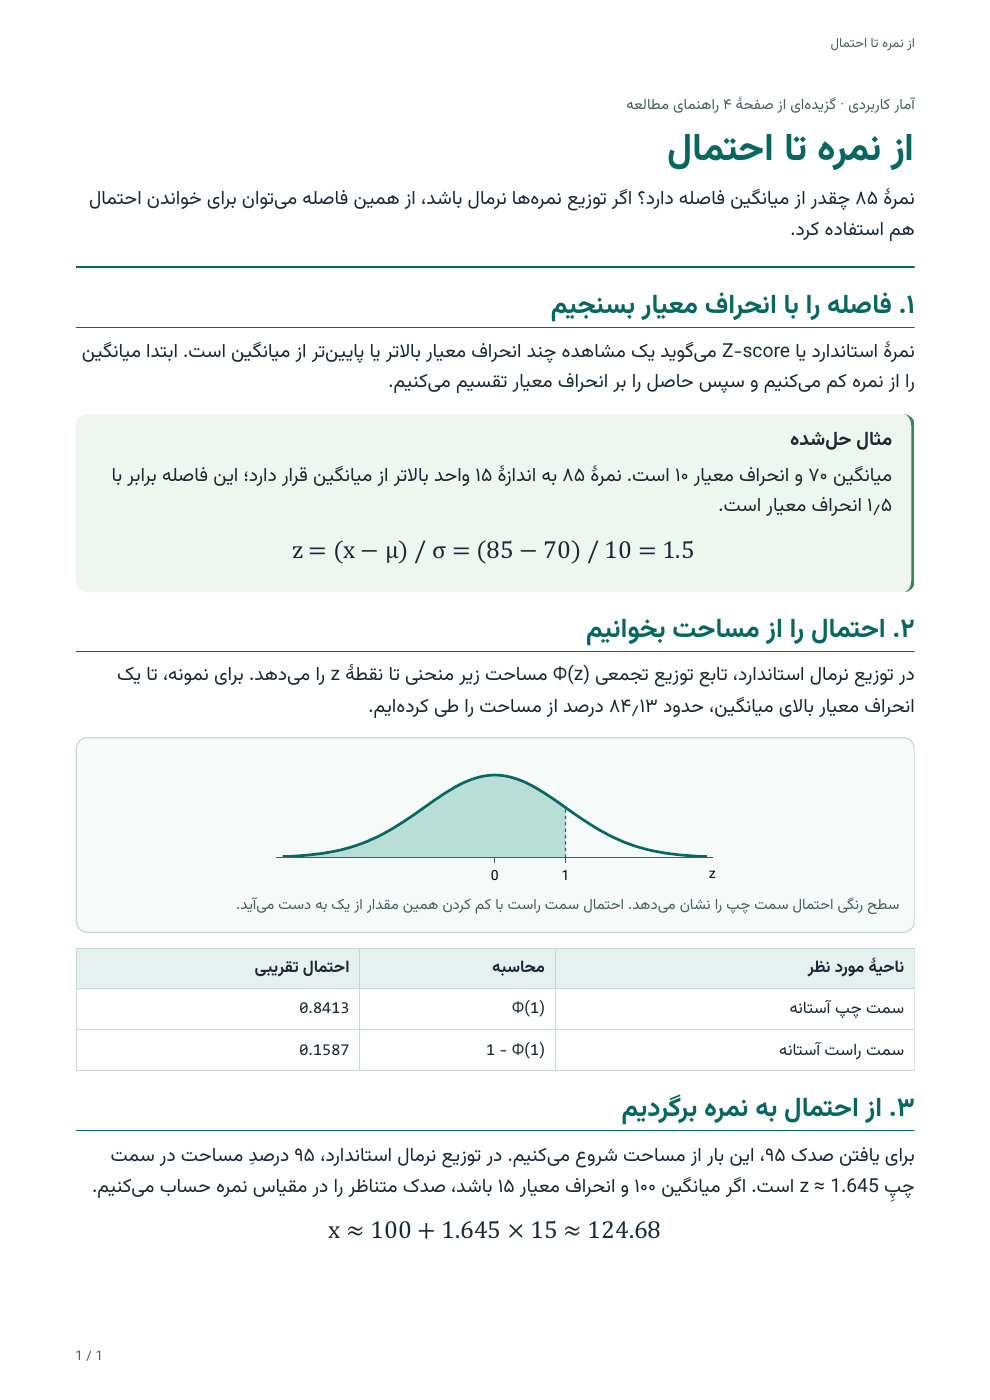
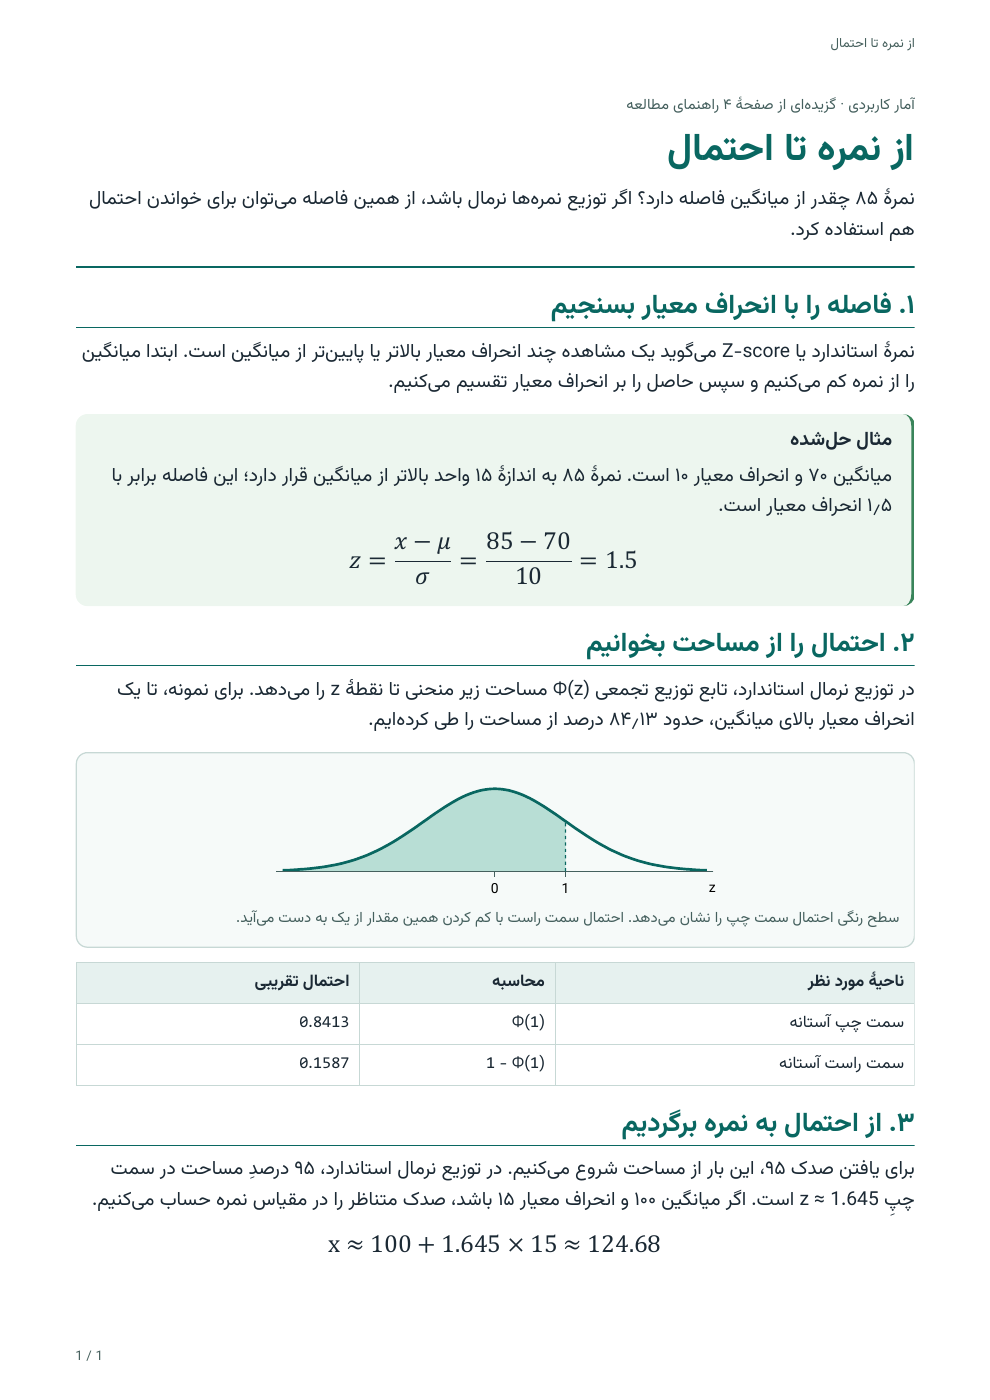
Require stacked mathematical fractions and update demo

diff --git a/templates/components.html b/templates/components.html
@@ -27,3 +27,6 @@
   </svg>
   <figcaption>Explain the transition and cite the source page or label the example.</figcaption>
 </figure>
+
+<!-- Inline numerical substitution. Keep the whole numerator in one mrow. -->
+<p>Substitution gives <math dir="ltr"><mfrac><mrow><mn>105</mn><mo>−</mo><mn>120</mn></mrow><mn>15</mn></mfrac><mo>=</mo><mo>−</mo><mn>1</mn></math>.</p>

diff --git a/templates/print.css b/templates/print.css
@@ -37,3 +37,6 @@ pre,.equation { text-align:center; direction:ltr; } pre { white-space:pre-wrap; 
 html:lang(fa) body { font-family:Vazirmatn, sans-serif; font-size:11.6pt; }
 
 html:lang(fa) ol:not([type]) { list-style-type:persian; }
+
+math { font-family:"Cambria Math","STIX Two Math","Latin Modern Math",math; }
+math mfrac { math-style:normal; }

diff --git a/references/design-system.md b/references/design-system.md
@@ -28,3 +28,7 @@ Teal section headings and thin rules orient the reader. Use a light interior and
 ## Language-sensitive typography
 
 Set HTML lang and dir for the output language. Use CSS logical edges. Use the bundled Vazirmatn Regular and Bold for Persian prose, headings, captions, and labels. Keep the fonts directory beside print.css. Inspect the PDF font list for both used weights. Optional licensed fonts may be supplied with local @font-face URLs. Use real Persian ی and ک and preserve lexical ZWNJ (میشود). Introduce an English term once and wrap it and its internal punctuation in an LTR bdi. Keep code, addresses, mathematical operands and array indices LTR even within RTL tables. Decide column order according to meaning. Use native MathML with an appropriate installed math face, or a verified local vector equation. A surrounding Persian sentence explains variables and direction. Use Persian digits (۰۱۲۳۴۵۶۷۸۹) in Persian prose, headings, captions and source-page references. Use ASCII digits (0123456789) in equations (including inline math), table cells, diagram labels, code and technical identifiers. Mark inline expressions with math or an LTR bdi so the printer can distinguish «۱۲ رأس» from n = 12. Table captions follow the prose rule. Mark a verbatim literal whose exact Unicode spelling matters with data-digits="preserve". For LTR lessons use the language's normal prose face, line height and punctuation; keep semantic accents on the start edge.
+
+## Fractions and numerical substitution
+
+Typeset every mathematical quotient as a stacked fraction with a horizontal bar, including inline expressions, table equations and worked numerical substitutions. Use MathML mfrac or LaTeX frac in a supported local math renderer. For example, (105 - 120)/15 becomes an mfrac with the entire difference in its numerator and 15 in its denominator. Keep decimal numbers as decimals and code operators faithful to executable syntax. Group numerator and denominator explicitly before rendering; preserve signs and operator precedence. Inspect inline fractions for baseline alignment and adequate line spacing.

diff --git a/references/quality.md b/references/quality.md
@@ -4,6 +4,6 @@ Record output version, page count, page-to-section mapping, scientific checks, v
 
 1. Check every in-scope source page against the coverage ledger. Verify each copied value, graph edge, axis, table unit and equation independently. Document additions and source ambiguities.
 2. Inspect review.json for A4 geometry, empty or lightly occupied pages and embedded fonts. Compare actual embedded face names with the intended body, math and code faces. Unexpected fallback needs review even when embedded. Confirm header, page number and last line on every raster.
-3. Open every page at reading resolution. Check Persian joining, ZWNJ, punctuation and mixed terms, code indentation, minus signs, exponents and fractions. Inspect arrows and labels at full size. Verify each caption follows the right figure and repeated table headers retain their columns.
+3. Open every page at reading resolution. Check Persian joining, ZWNJ, punctuation and mixed terms, code indentation, minus signs, exponents and fractions. Confirm that mathematical division has a stacked numerator and denominator, including substituted numbers and inline expressions. Inspect arrows and labels at full size. Verify each caption follows the right figure and repeated table headers retain their columns.
 4. Compare adjacent pages at thumbnail scale for hierarchy, continuity and empty lower areas. Keep short figures and callouts intact. Split a long callout or table at a semantic boundary; repeat table headers. Move headings with the first paragraph. Avoid fixed-height clipping and blanket page breaks. Rebalance a near-empty ending before reducing body size.
 5. Correct HTML/CSS or content, print again and rasterize the new PDF into a fresh directory. Review all changed pages and neighbors, and verify total pages and coverage again. Record any item whose correctness could not be resolved from the source.

diff --git a/SKILL.md b/SKILL.md
@@ -10,5 +10,5 @@ Resolve package paths relative to this skill. Write working files in the user's 
 1. Identify the raw subject source, style reference and page scope. Use the user's requested language first, otherwise the designated reference handout's main language, otherwise the raw source language. With mixed references use the one closest to the assignment; record the choice. Identify the script direction independently. For Persian follow the mixed-script typography rules below.
 2. Run `scripts/extract.py` on the raw PDF. For native slides first export slides and any relevant speaker notes using the presentation application. Read extracted text alongside page images, especially cumulative diagrams, equations and tables.
 3. Follow [teaching.md](references/teaching.md) to map source coverage and teach a beginner. The reference models teaching and design; scientific claims come from the course source or clearly identified derivations.
-4. Apply [design-system.md](references/design-system.md). Copy the starter HTML, CSS and adjacent fonts directory into the project, set document language, direction and title, and author the lesson. See [usage.md](references/usage.md) for commands.
+4. Apply [design-system.md](references/design-system.md). Copy the starter HTML, CSS and adjacent fonts directory into the project, set document language, direction and title, and author the lesson. Typeset mathematical quotients as stacked fractions, including inline math and numerical substitutions. See [usage.md](references/usage.md) for commands.
 5. Print with `scripts/build.py`, rasterize **every output page** with `scripts/review.py`, then follow [quality.md](references/quality.md). Correct the source and repeat the print/review cycle. Deliver the verified PDF, coverage summary and any unresolved source ambiguity.
